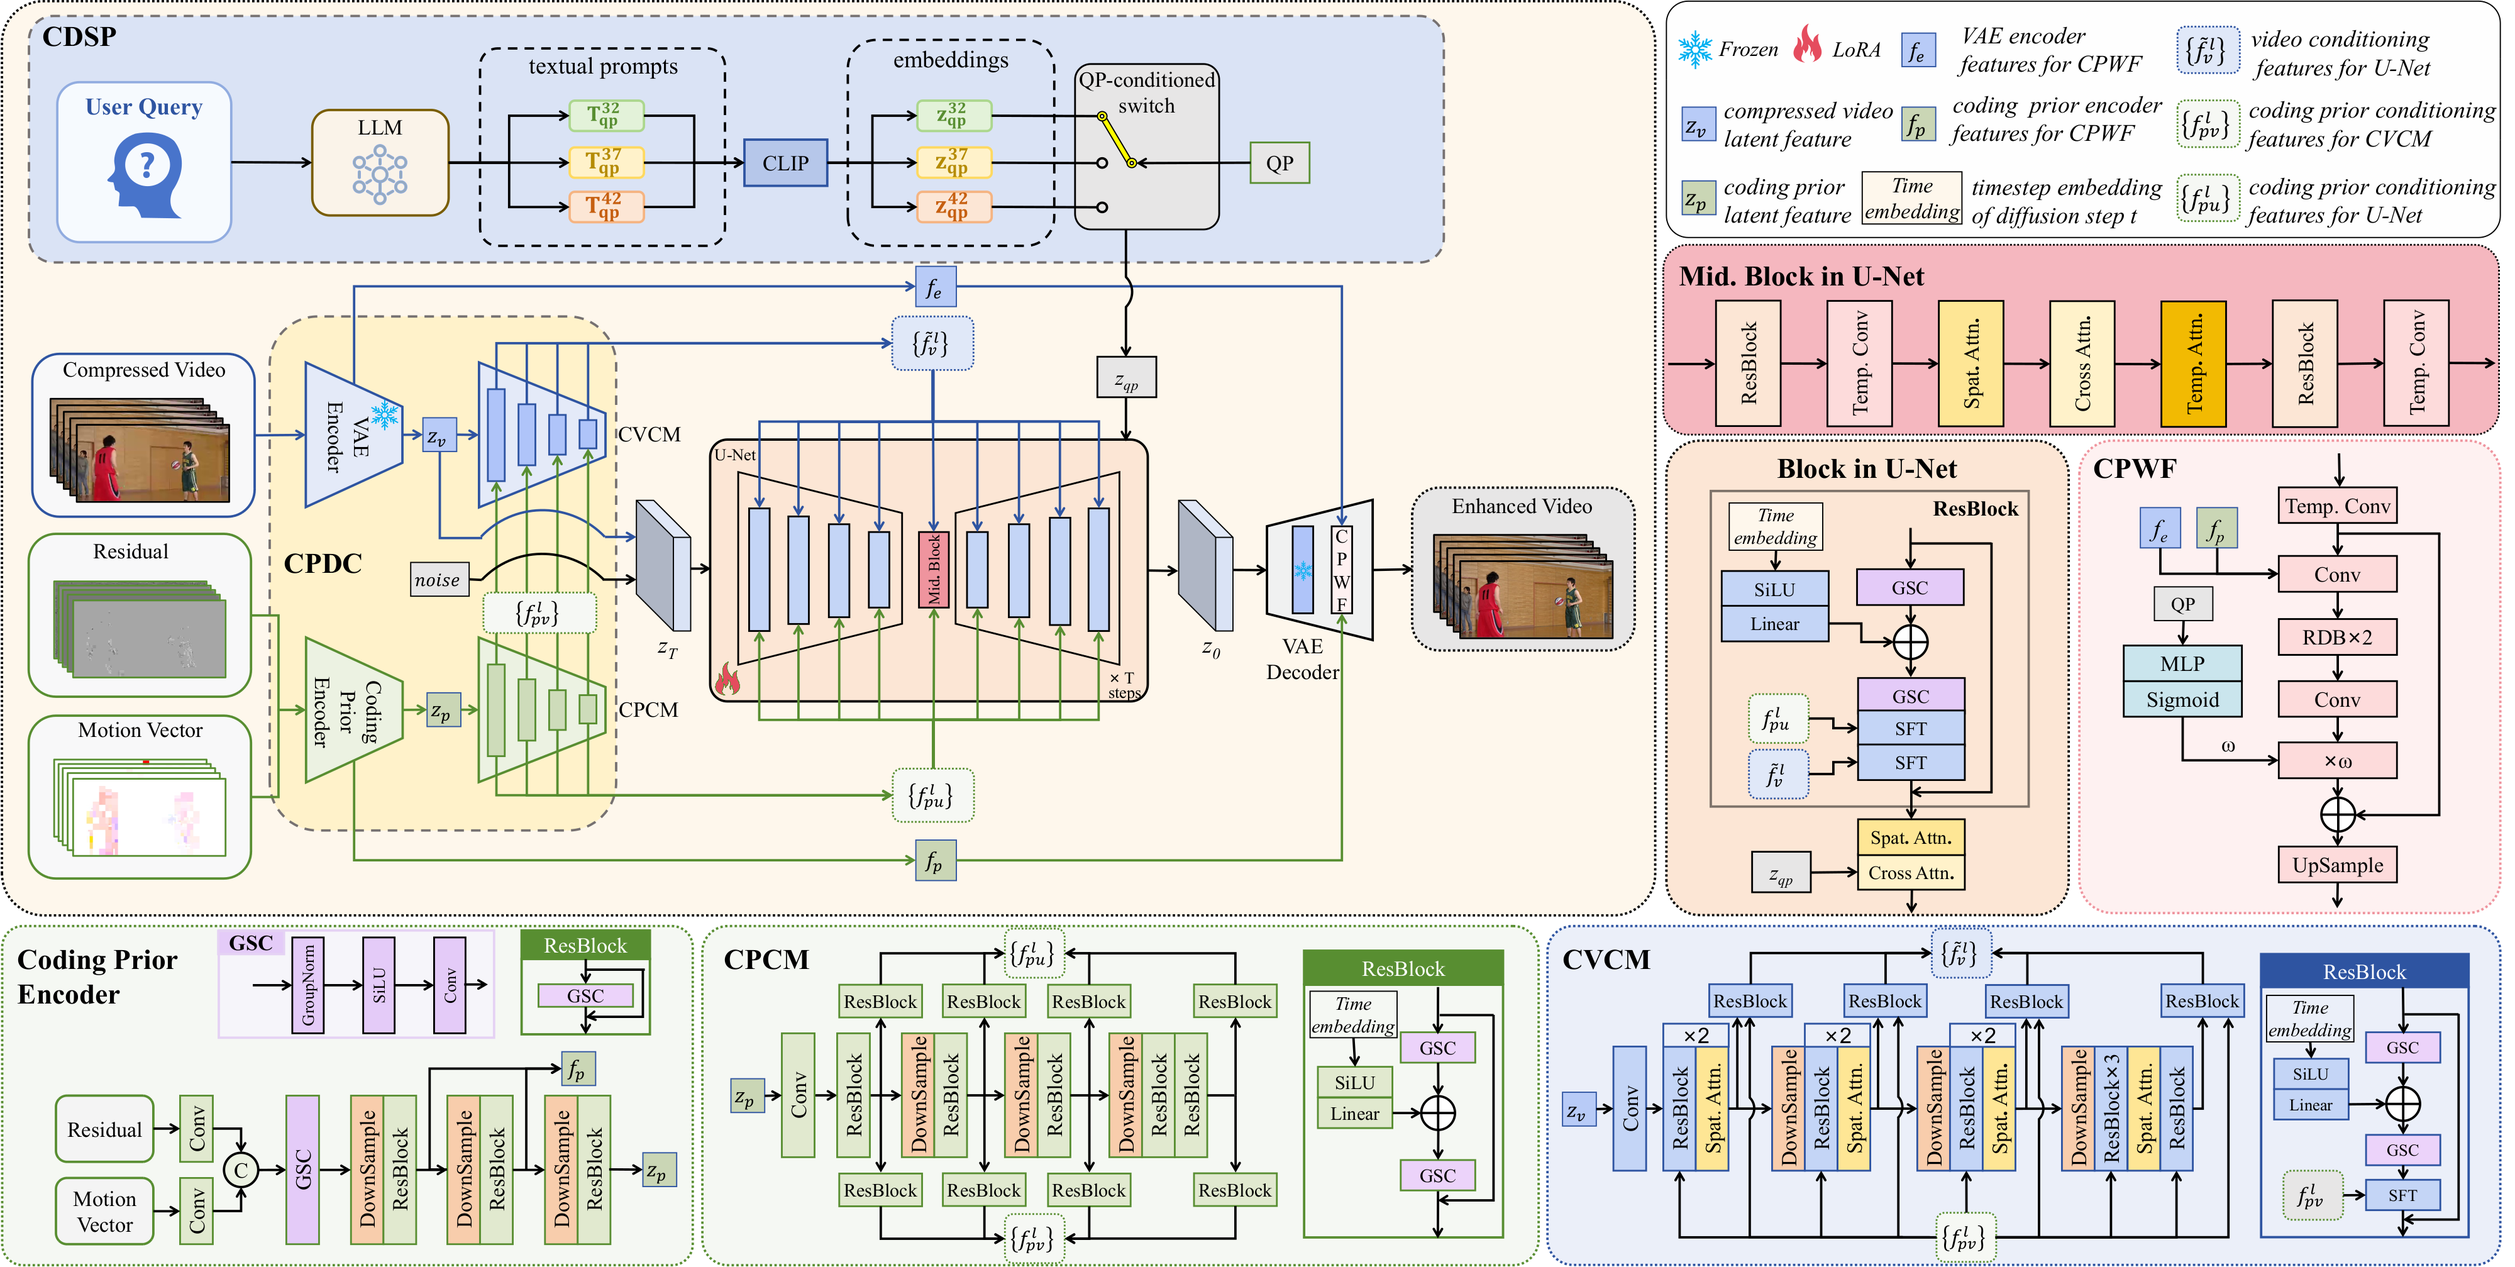
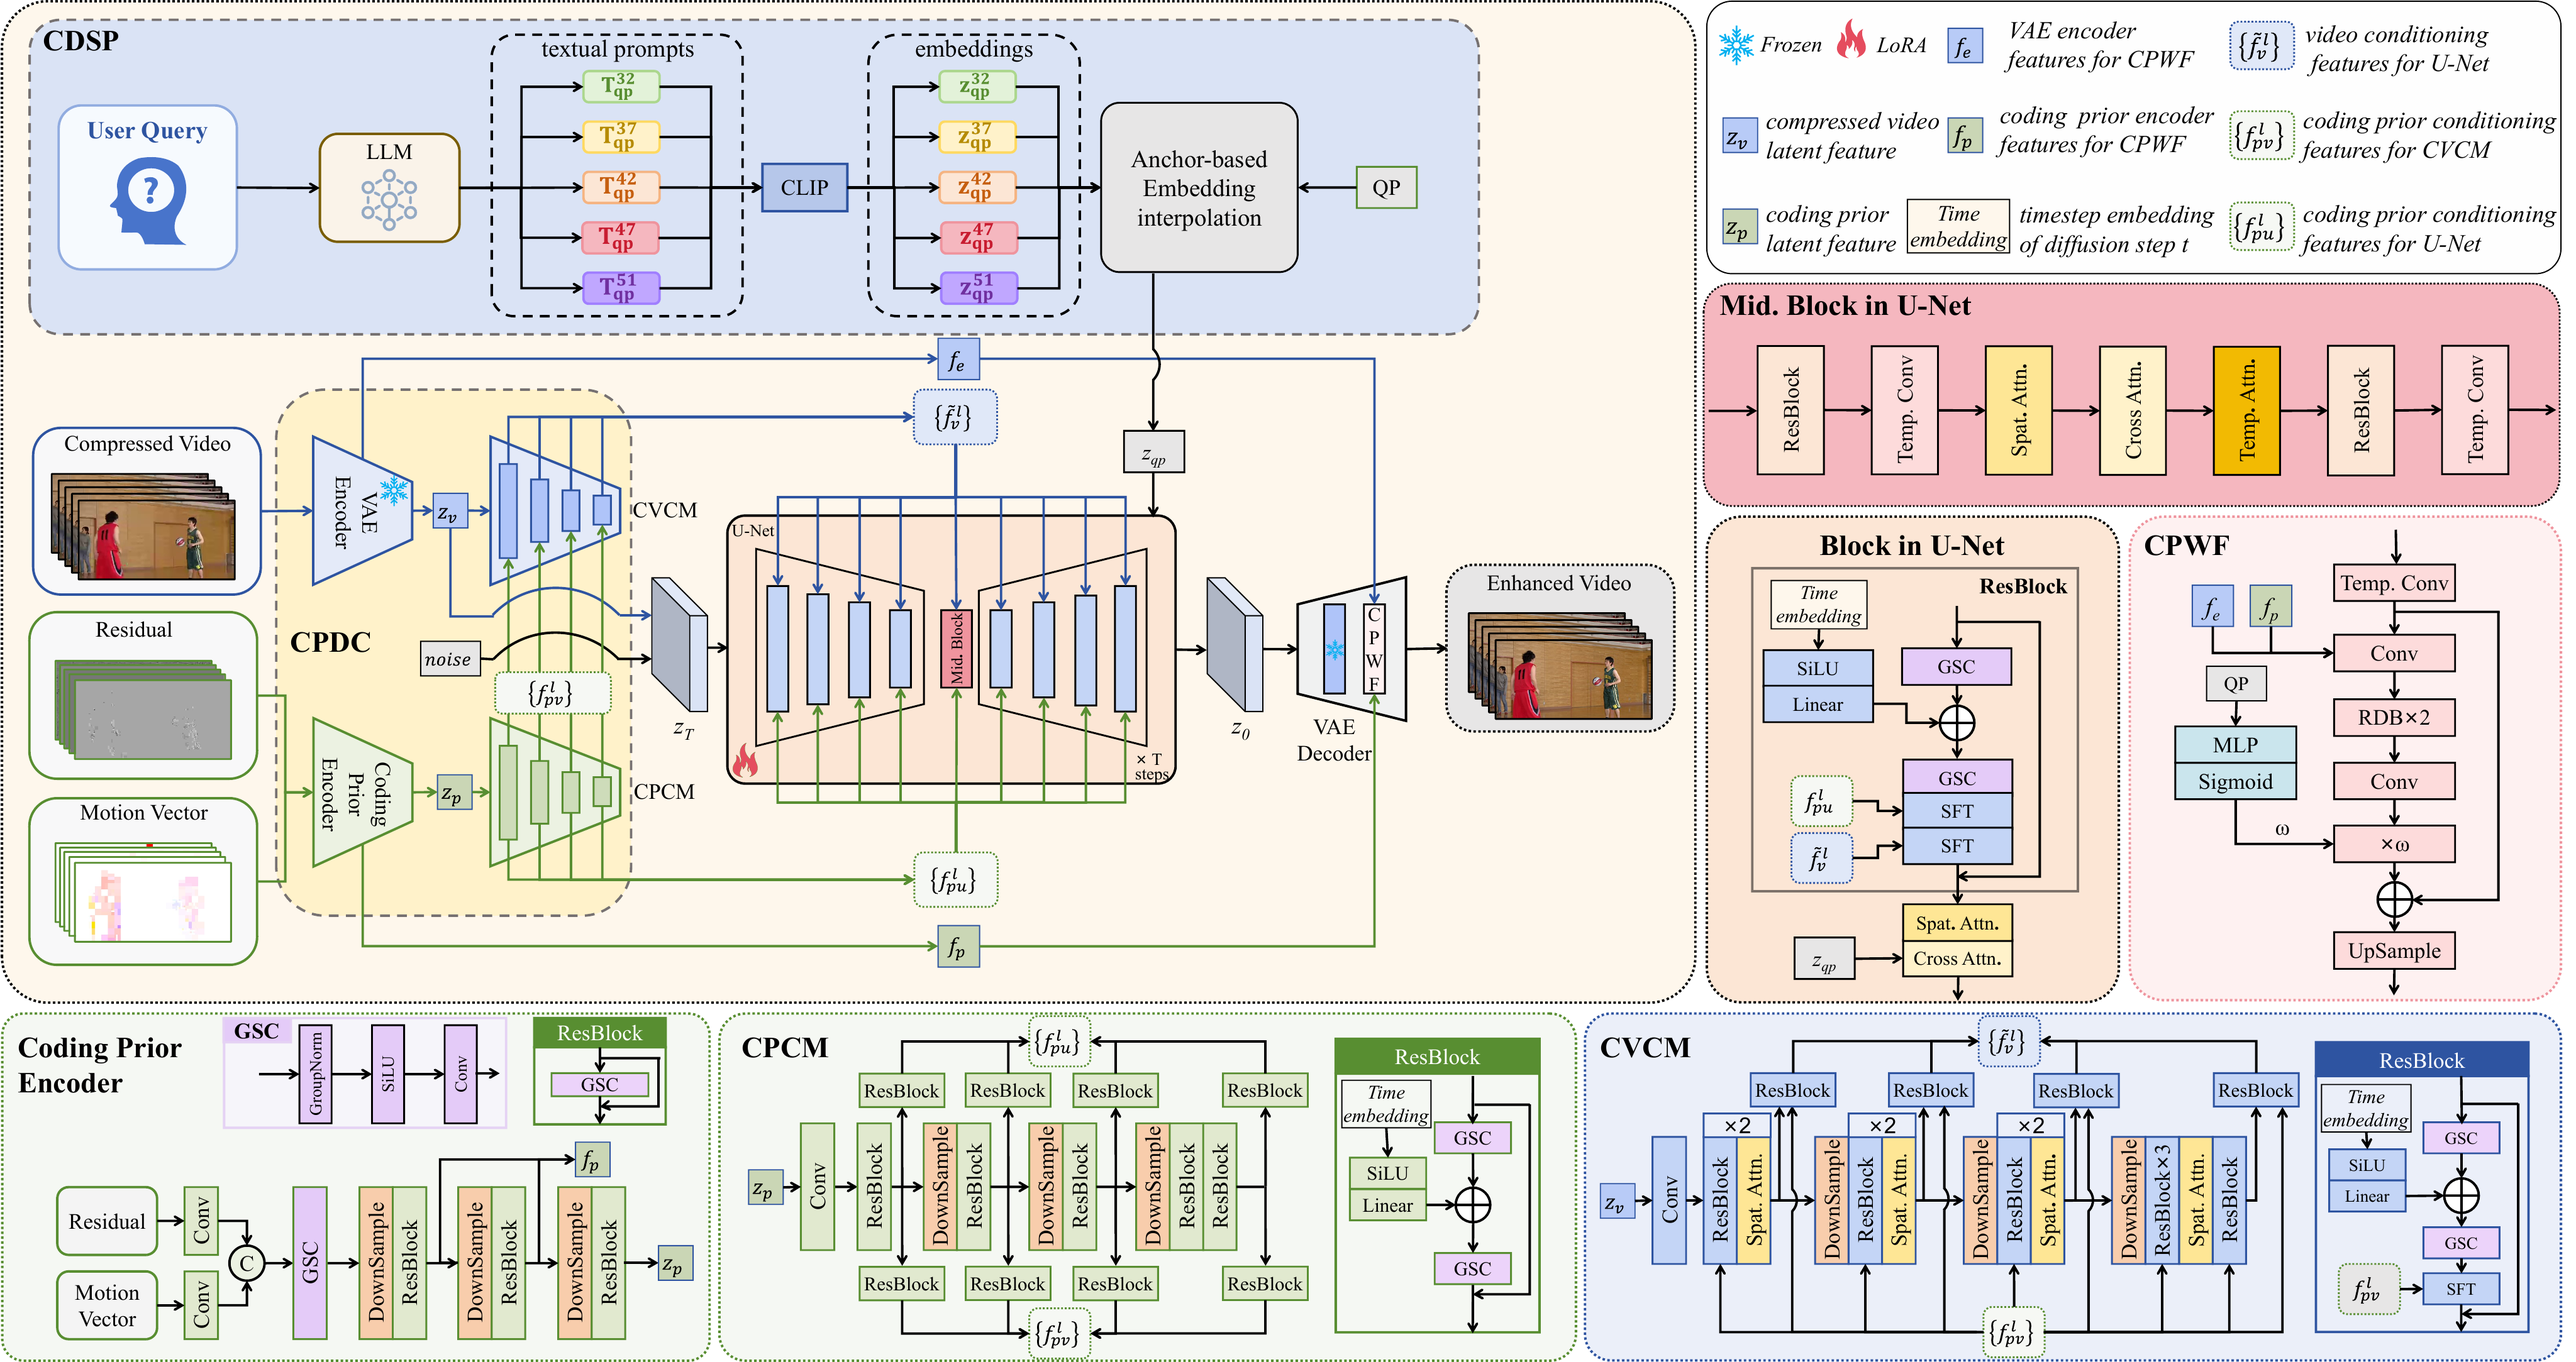
Add paper BibTeX and update method diagram

Changed region(s): [[0.0, 0.0, 1.0, 1.0], [0.5938, 0.9846, 0.625, 1.0]]

diff --git a/projects/DiffCVE/index.html b/projects/DiffCVE/index.html
@@ -137,6 +137,27 @@ h1{
     height:auto;
 }
 
+.bibtex-section{
+    max-width:1100px;
+    padding:0 16px 72px;
+}
+
+.bibtex-section pre{
+    margin:0;
+    padding:24px 28px;
+    overflow-x:auto;
+    border-radius:8px;
+    background:#f5f5f5;
+    color:#414141;
+    font-size:14px;
+    line-height:1.75;
+    tab-size:2;
+}
+
+.bibtex-section code{
+    font-family:Consolas,"Liberation Mono",monospace;
+}
+
 .sub{
     margin:0 0 24px;
     text-align:center;
@@ -431,6 +452,15 @@ video{
             <img src="assets/model.png" alt="Overview of DiffCVE, showing Coding Prior-enhanced Dual Conditioning (CPDC), Compression Degradation Semantic Prompting (CDSP), and Coding Prior-guided Weighted Fusion (CPWF)." loading="lazy" decoding="async">
         </a>
     </figure>
+</section>
+<section class="page bibtex-section" aria-labelledby="bibtex-title">
+    <h2 id="bibtex-title" class="section-title">BibTeX</h2>
+    <pre><code>@article{xiao2026diffcve,
+  title={DiffCVE: Diffusion-based Compressed Video Enhancement},
+  author={Xiao, Wenqiang and Ma, Wenzhuo and Zhang, Junxi and Chen, Zhenzhong},
+  journal={arXiv preprint arXiv:2607.07195},
+  year={2026}
+}</code></pre>
 </section>
 </main>
 
